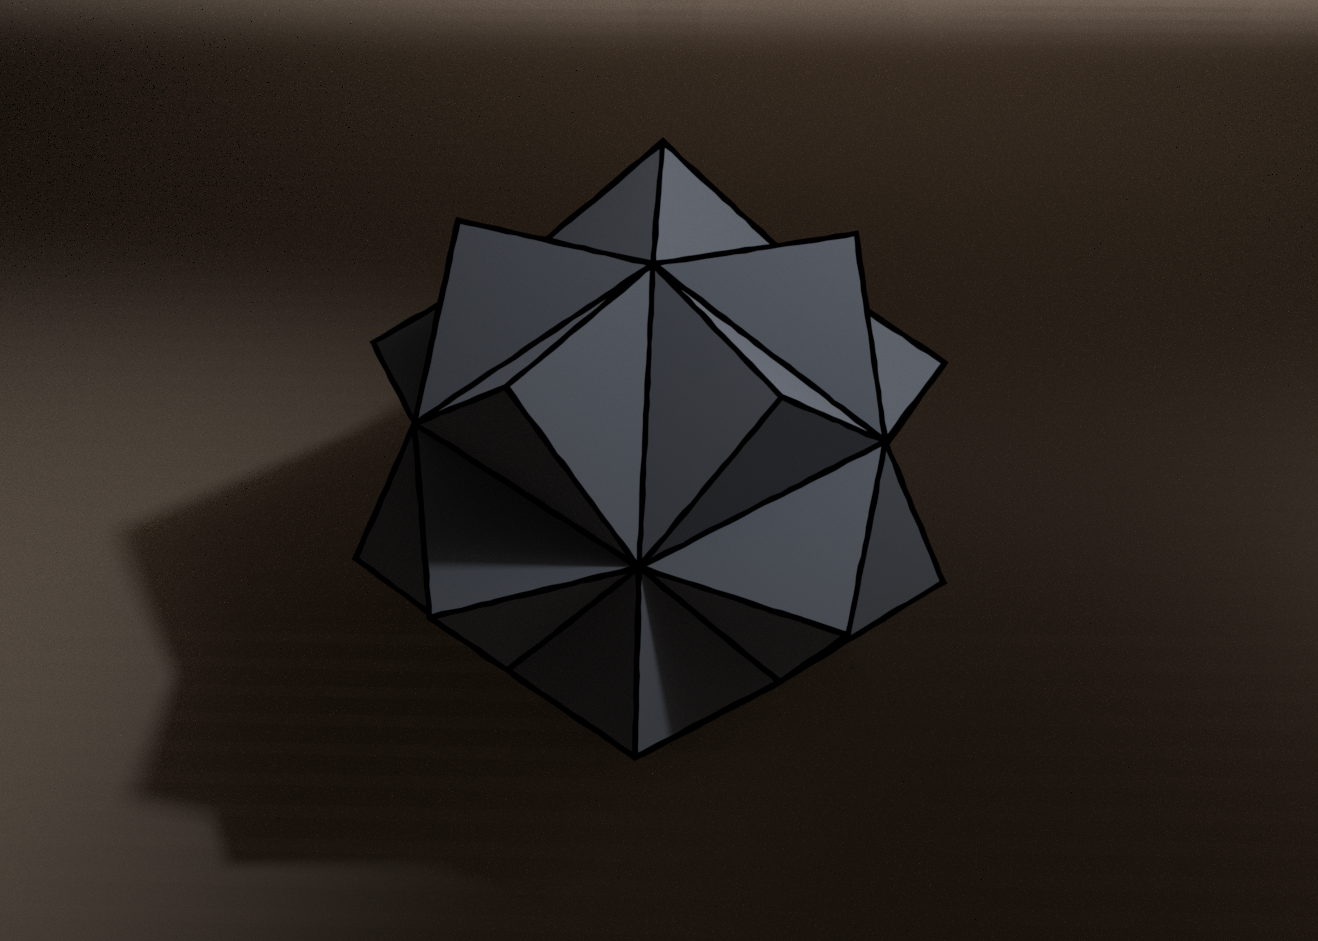
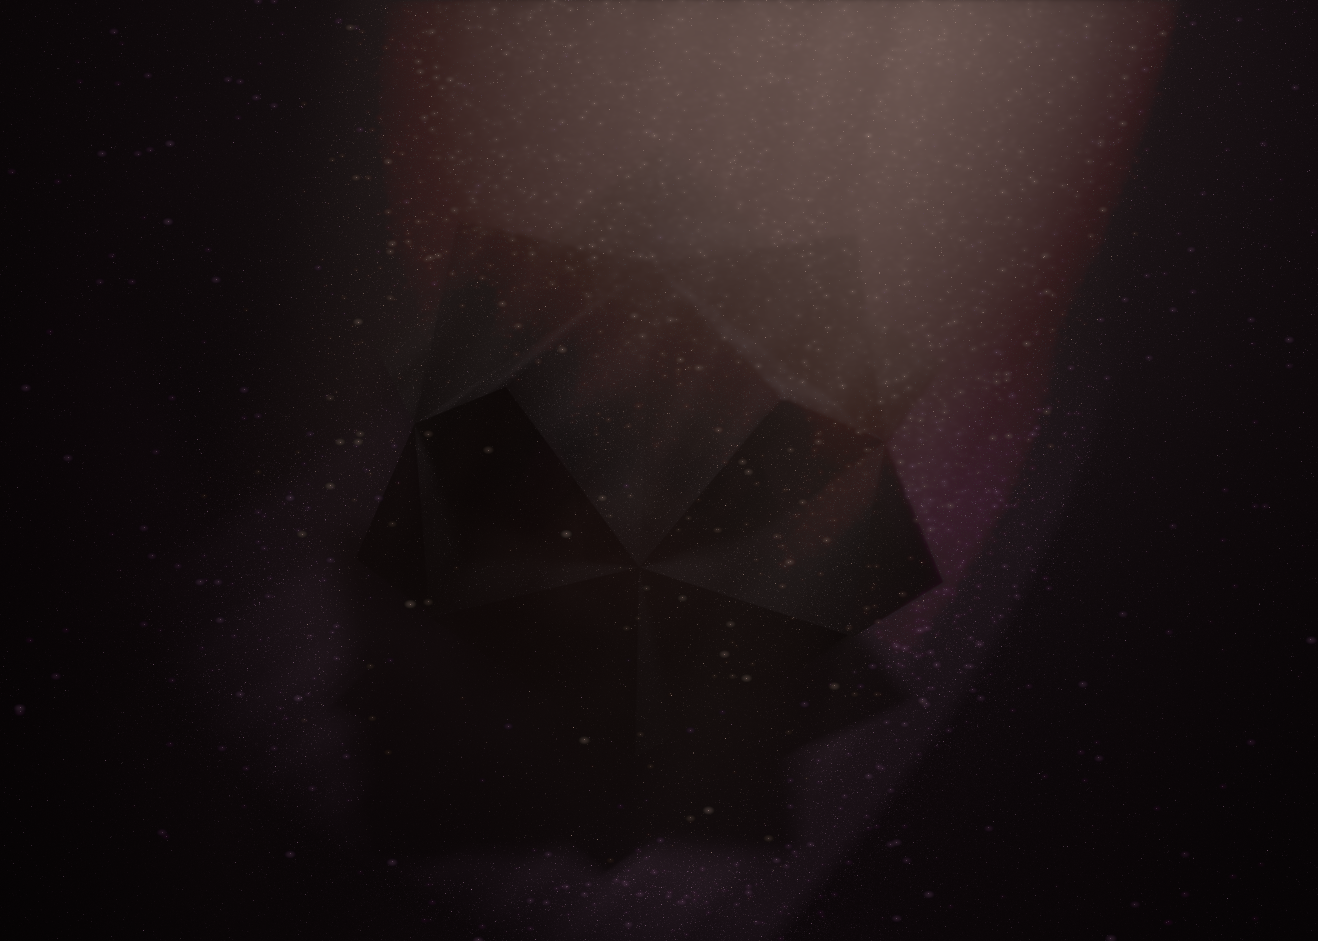
Further local changes

diff --git a/app/assets/stylesheets/components.scss b/app/assets/stylesheets/components.scss
@@ -804,7 +804,10 @@ a.status__content__spoiler-link {
   flex-direction: column;
   width: 100%;
   height: 100%;
-  background: darken($color1, 7%);
+  background: image-url('background-photo.jpeg');
+  background-size: cover;
+  background-position: center;
+  background-attachment: fixed;
 }
 
 .drawer {
